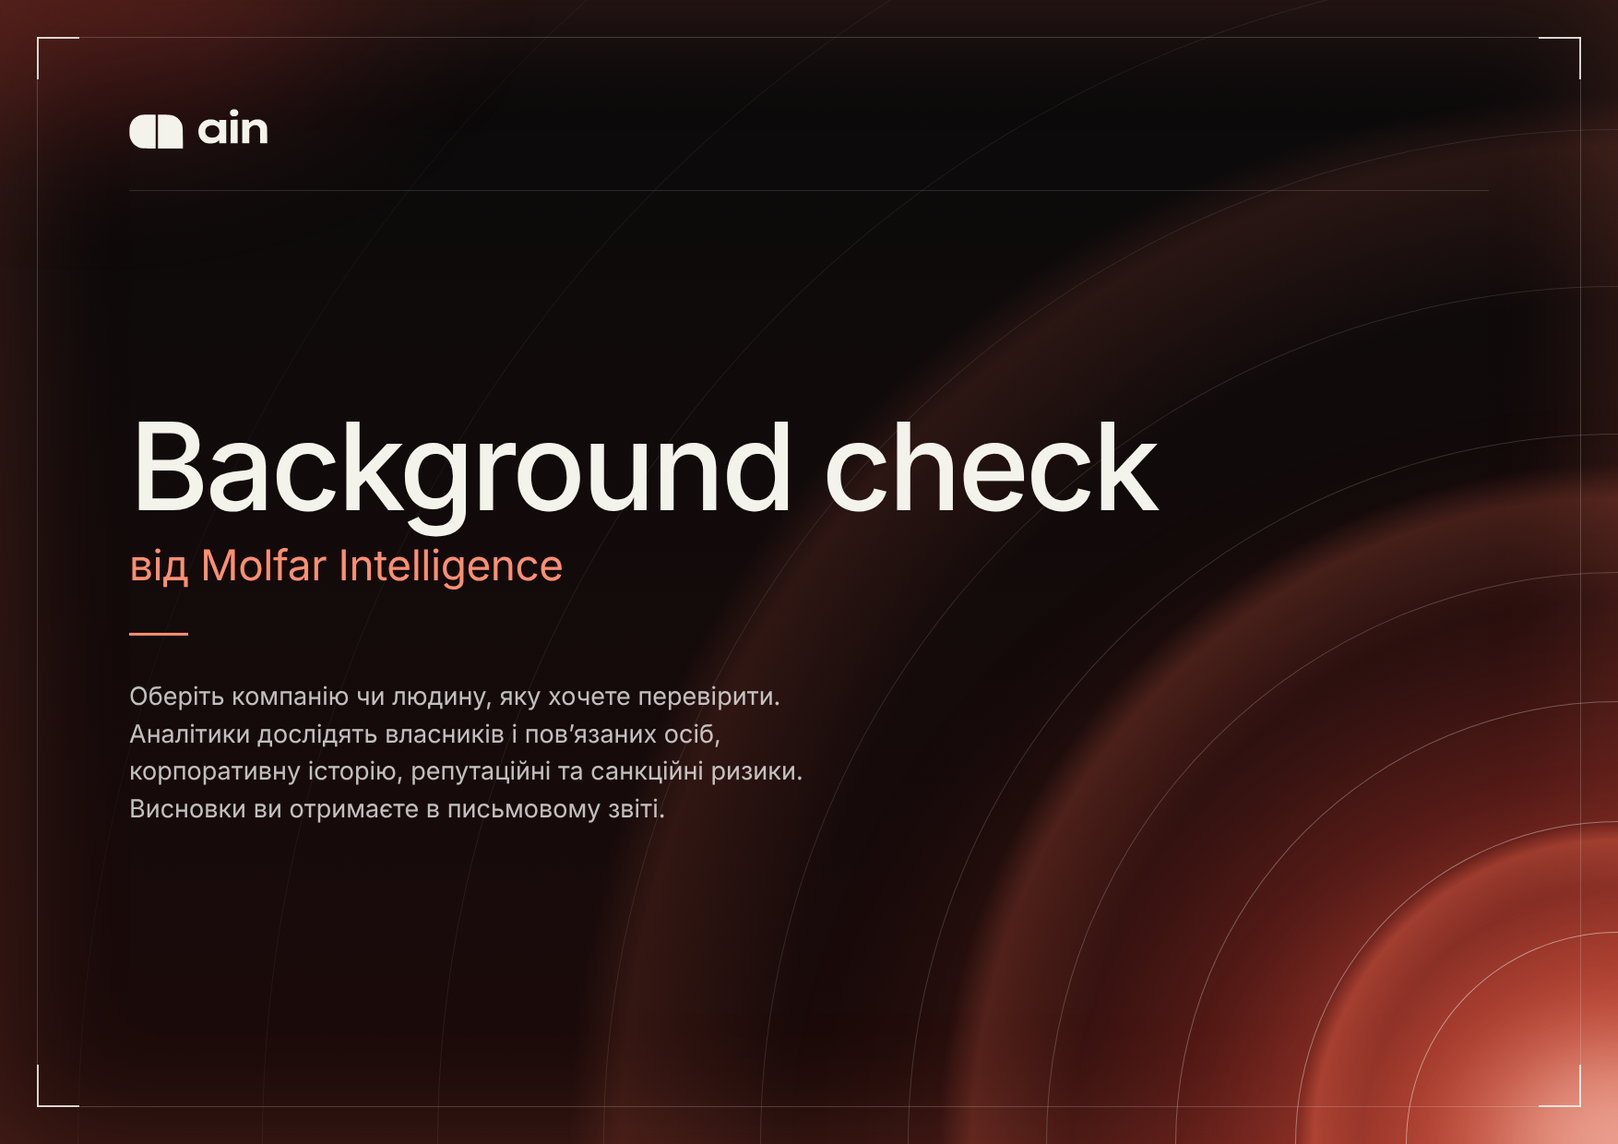
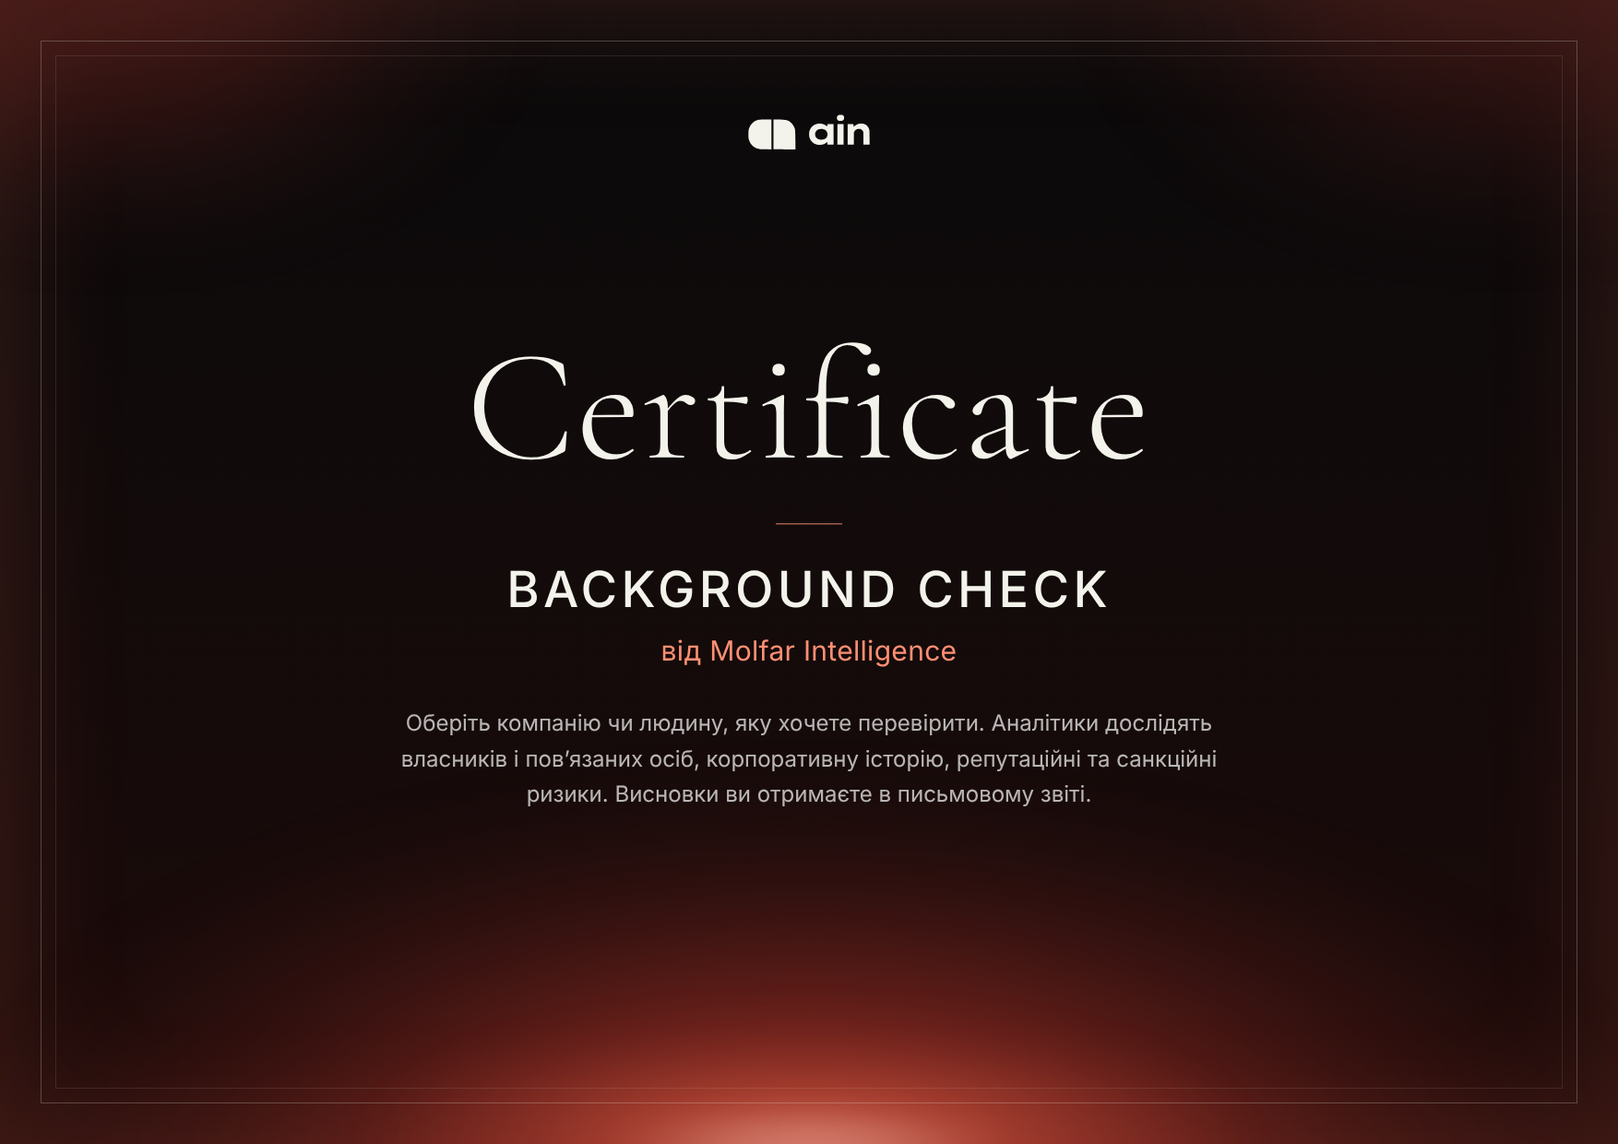
Сертифікати: центрована формальна композиція, слово Certificate, без графіки
Прибрано сонар-дуги й кутики. Тепер: логотип AIN, «Certificate» (Cormorant
Garamond Light), назва призу, партнер, опис по центру; м’яке червоне світло
знизу й тонка подвійна рамка.

Claude-Session: https://claude.ai/code/session_01JW72noxTFsibkUspgJ9z9a

diff --git a/ain-awards-certificate/code.js b/ain-awards-certificate/code.js
@@ -12,21 +12,19 @@ const PRIZES = [
     title: "Background check",
     by: "від Molfar Intelligence",
     desc: "Оберіть компанію чи людину, яку хочете перевірити. Аналітики дослідять власників і пов’язаних осіб, корпоративну історію, репутаційні та санкційні ризики. Висновки ви отримаєте в письмовому звіті.",
-    phase: 0,
   },
   {
     key: "osint-course",
+    descW: 980,
     title: "Курс з OSINT",
     by: "від Molfar Intelligence Institute",
     desc: "Це доступ до онлайн-курсу з розвідки з відкритих джерел. Аналітики-практики навчать вас шукати, перевіряти й аналізувати відкриту інформацію. Вчитися можна у власному темпі.",
-    phase: 60,
   },
   {
     key: "minos-month",
     title: "Місяць доступу до Minos",
     by: null,
     desc: "Minos — це платформа Molfar Intelligence для моніторингу інформаційних загроз і реагування на них. Протягом місяця з дня активації ви користуєтеся нею безкоштовно.",
-    phase: 120,
   },
 ];
 
@@ -35,7 +33,7 @@ const PAL = {
   base1: "#0A0A0B", base2: "#1C0B0A",
   red: "#C2382E", ember: "#F06A4E", flash: "#FFD9CC", peach: "#FF8F73", cream: "#F3F3EB", white: "#FFFFFF",
 };
-const W = 1754, H = 1240;
+const W = 1754, H = 1240, CX = W / 2;
 
 const solid = (c, a) => ({ k: "solid", c, a: a == null ? 1 : a });
 const lin = (dir, stops) => ({ k: "lin", dir, stops });
@@ -51,61 +49,38 @@ const bar = (name, x, y, w, h, c, a) => ({ t: "frame", n: name, x, y, w, h, fill
 const logoSvg = (w, color) =>
   `<svg xmlns="http://www.w3.org/2000/svg" width="${w}" height="${Math.round((w * LOGO.H) / LOGO.W * 10) / 10}" viewBox="0 0 ${LOGO.W} ${LOGO.H}" fill="none"><path d="${LOGO.mark}" fill="${color}"/><path d="${LOGO.word}" fill="${color}"/></svg>`;
 
-/* «сонар»: концентричні дуги з правого нижнього кута + м’які світні кільця */
-function sonar(phase) {
-  const cx = W, cy = H, ch = [];
-  const radii = [230, 350, 480, 620, 770, 930, 1100, 1280, 1470, 1670];
-  const alphas = [0.5, 0.4, 0.3, 0.22, 0.17, 0.13, 0.1, 0.08, 0.06, 0.045];
-  radii.forEach((r, i) => {
-    const R = r + phase;
-    ch.push({ t: "ellipse", n: "дуга", x: cx - R, y: cy - R, w: 2 * R, h: 2 * R, stroke: { c: PAL.cream, a: alphas[i], w: 1 } });
-  });
-  [[330, 0.34], [700, 0.2], [1080, 0.12]].forEach(([rp, a]) => {
-    const R = (rp + phase) / 0.95;
-    ch.push({
-      t: "ellipse", n: "світне кільце", x: cx - R, y: cy - R, w: 2 * R, h: 2 * R,
-      fill: { k: "rad", stops: [[0, PAL.ember, 0], [0.8, PAL.ember, 0], [0.95, PAL.ember, a], [1, PAL.ember, 0]] },
-    });
-  });
-  return { t: "frame", n: "Сонар", x: 0, y: 0, w: W, h: H, ch };
-}
-/* візирні кутики */
-function corners(inset, len, th, c, a) {
-  const x0 = inset, y0 = inset, x1 = W - inset, y1 = H - inset;
-  return [
-    bar("кутик", x0, y0, len, th, c, a), bar("кутик", x0, y0, th, len, c, a),
-    bar("кутик", x1 - len, y0, len, th, c, a), bar("кутик", x1 - th, y0, th, len, c, a),
-    bar("кутик", x0, y1 - th, len, th, c, a), bar("кутик", x0, y1 - len, th, len, c, a),
-    bar("кутик", x1 - len, y1 - th, len, th, c, a), bar("кутик", x1 - th, y1 - len, th, len, c, a),
-  ];
-}
+const ENG = "Certificate";
 
 function certificate(p) {
-  const titleBlock = [text({ n: "title", s: p.title, w: 1360, f: "dm", sz: 132, lhr: 1.0, ls: -0.03, c: PAL.cream })];
-  if (p.by) titleBlock.push(text({ n: "by", s: p.by, w: 1000, f: "dr", sz: 46, lhr: 1.2, ls: -0.01, c: PAL.peach }));
-  const copy = {
-    t: "frame", n: "текст", x: 140, cy: 668, w: "hug", h: "hug", layout: "V", gap: 46, align: "start",
+  const group = {
+    t: "frame", n: "текст", cx: CX, cy: 618, w: "hug", h: "hug", layout: "V", gap: 40, align: "center",
     ch: [
-      { t: "frame", n: "назва", w: "hug", h: "hug", layout: "V", gap: 14, align: "start", ch: titleBlock },
-      bar("акцентна риска", 0, 0, 64, 3, PAL.peach, 1),
-      text({ n: "desc", s: p.desc, w: 780, f: "dr", sz: 27, lhr: 1.5, c: PAL.white, a: 0.74 }),
+      text({ n: "Certificate", s: ENG, w: 1400, al: "c", f: "serif", sz: 172, lhr: 1.0, ls: 0.01, c: PAL.cream }),
+      bar("риска", 0, 0, 72, 1, PAL.peach, 0.9),
+      {
+        t: "frame", n: "назва", w: "hug", h: "hug", layout: "V", gap: 16, align: "center",
+        ch: [
+          text({ n: "title", s: p.title, w: 1300, al: "c", f: "dm", sz: 54, lhr: 1.15, ls: 0.08, c: PAL.cream, caps: true }),
+          ...(p.by ? [text({ n: "by", s: p.by, w: 1000, al: "c", f: "dr", sz: 30, lhr: 1.3, ls: 0.01, c: PAL.peach })] : []),
+        ],
+      },
+      text({ n: "desc", s: p.desc, w: p.descW || 900, al: "c", f: "dr", sz: 24, lhr: 1.6, c: PAL.white, a: 0.7 }),
     ],
   };
   return {
     t: "frame", n: "AIN Awards 2026 — " + p.title + (p.by ? " " + p.by : ""), x: 0, y: 0, w: W, h: H, clip: true,
     fill: lin("v", [[0, PAL.base1], [1, PAL.base2]]),
-    shadows: [{ inner: true, x: 0, y: 0, blur: 140, c: PAL.ember, a: 0.22 }],
+    shadows: [{ inner: true, x: 0, y: 0, blur: 140, c: PAL.ember, a: 0.2 }],
     ch: [
-      glow("Сяйво", W, H, 1700, 1500, PAL.red, 0.72, 90),
-      glow("Сяйво / верх-ліво", 100, 0, 900, 500, PAL.red, 0.3, 80),
-      glow("Ядро", W, H, 900, 760, PAL.ember, 0.7, 60),
-      glow("Спалах", W, H, 420, 340, PAL.flash, 0.6, 40),
-      sonar(p.phase),
-      { t: "frame", n: "Рамка", x: 40, y: 40, w: W - 80, h: H - 80, stroke: { c: PAL.cream, a: 0.2, w: 1 } },
-      ...corners(40, 46, 2, PAL.cream, 0.85),
-      { t: "svg", n: "AIN logo", x: 140, y: 118, w: 150, h: 43.4, svg: logoSvg(150, PAL.cream) },
-      bar("лінія шапки", 140, 206, W - 280, 1, PAL.cream, 0.14),
-      copy,
+      glow("Сяйво / низ", CX, 1260, 1800, 800, PAL.red, 0.66, 90),
+      glow("Сяйво / верх-ліво", 120, 20, 900, 520, PAL.red, 0.26, 80),
+      glow("Сяйво / верх-право", W - 120, 20, 900, 520, PAL.red, 0.2, 80),
+      glow("Ядро", CX, 1236, 960, 260, PAL.ember, 0.55, 55),
+      glow("Спалах", CX, 1240, 460, 90, PAL.flash, 0.4, 30),
+      { t: "frame", n: "Рамка", x: 44, y: 44, w: W - 88, h: H - 88, stroke: { c: PAL.cream, a: 0.24, w: 1 } },
+      { t: "frame", n: "Рамка внутрішня", x: 60, y: 60, w: W - 120, h: H - 120, stroke: { c: PAL.cream, a: 0.1, w: 1 } },
+      { t: "svg", n: "AIN logo", cx: CX, y: 124, w: 132, h: 38.2, svg: logoSvg(132, PAL.cream) },
+      group,
     ],
   };
 }
@@ -123,6 +98,7 @@ const rgbaF = (h, a) => Object.assign(hex(h), { a: a == null ? 1 : a });
 const FONT_WANT = {
   dm: { families: ["Basis Grotesque Pro", "Basis Grotesque"], styles: ["Medium", "Regular"], fb: { family: "Inter", style: "Medium" } },
   dr: { families: ["Basis Grotesque Pro", "Basis Grotesque"], styles: ["Regular", "Medium"], fb: { family: "Inter", style: "Regular" } },
+  serif: { families: ["Cormorant Garamond", "Cormorant", "Playfair Display", "EB Garamond"], styles: ["Light", "Regular"], fb: { family: "Inter", style: "Light" } },
 };
 const FONTS = {};
 async function loadFonts() {

diff --git a/ain-awards-certificate/spec.js b/ain-awards-certificate/spec.js
@@ -9,21 +9,19 @@ const PRIZES = [
     title: "Background check",
     by: "від Molfar Intelligence",
     desc: "Оберіть компанію чи людину, яку хочете перевірити. Аналітики дослідять власників і пов’язаних осіб, корпоративну історію, репутаційні та санкційні ризики. Висновки ви отримаєте в письмовому звіті.",
-    phase: 0,
   },
   {
     key: "osint-course",
+    descW: 980,
     title: "Курс з OSINT",
     by: "від Molfar Intelligence Institute",
     desc: "Це доступ до онлайн-курсу з розвідки з відкритих джерел. Аналітики-практики навчать вас шукати, перевіряти й аналізувати відкриту інформацію. Вчитися можна у власному темпі.",
-    phase: 60,
   },
   {
     key: "minos-month",
     title: "Місяць доступу до Minos",
     by: null,
     desc: "Minos — це платформа Molfar Intelligence для моніторингу інформаційних загроз і реагування на них. Протягом місяця з дня активації ви користуєтеся нею безкоштовно.",
-    phase: 120,
   },
 ];
 
@@ -32,7 +30,7 @@ const PAL = {
   base1: "#0A0A0B", base2: "#1C0B0A",
   red: "#C2382E", ember: "#F06A4E", flash: "#FFD9CC", peach: "#FF8F73", cream: "#F3F3EB", white: "#FFFFFF",
 };
-const W = 1754, H = 1240;
+const W = 1754, H = 1240, CX = W / 2;
 
 const solid = (c, a) => ({ k: "solid", c, a: a == null ? 1 : a });
 const lin = (dir, stops) => ({ k: "lin", dir, stops });
@@ -48,61 +46,38 @@ const bar = (name, x, y, w, h, c, a) => ({ t: "frame", n: name, x, y, w, h, fill
 const logoSvg = (w, color) =>
   `<svg xmlns="http://www.w3.org/2000/svg" width="${w}" height="${Math.round((w * LOGO.H) / LOGO.W * 10) / 10}" viewBox="0 0 ${LOGO.W} ${LOGO.H}" fill="none"><path d="${LOGO.mark}" fill="${color}"/><path d="${LOGO.word}" fill="${color}"/></svg>`;
 
-/* «сонар»: концентричні дуги з правого нижнього кута + м’які світні кільця */
-function sonar(phase) {
-  const cx = W, cy = H, ch = [];
-  const radii = [230, 350, 480, 620, 770, 930, 1100, 1280, 1470, 1670];
-  const alphas = [0.5, 0.4, 0.3, 0.22, 0.17, 0.13, 0.1, 0.08, 0.06, 0.045];
-  radii.forEach((r, i) => {
-    const R = r + phase;
-    ch.push({ t: "ellipse", n: "дуга", x: cx - R, y: cy - R, w: 2 * R, h: 2 * R, stroke: { c: PAL.cream, a: alphas[i], w: 1 } });
-  });
-  [[330, 0.34], [700, 0.2], [1080, 0.12]].forEach(([rp, a]) => {
-    const R = (rp + phase) / 0.95;
-    ch.push({
-      t: "ellipse", n: "світне кільце", x: cx - R, y: cy - R, w: 2 * R, h: 2 * R,
-      fill: { k: "rad", stops: [[0, PAL.ember, 0], [0.8, PAL.ember, 0], [0.95, PAL.ember, a], [1, PAL.ember, 0]] },
-    });
-  });
-  return { t: "frame", n: "Сонар", x: 0, y: 0, w: W, h: H, ch };
-}
-/* візирні кутики */
-function corners(inset, len, th, c, a) {
-  const x0 = inset, y0 = inset, x1 = W - inset, y1 = H - inset;
-  return [
-    bar("кутик", x0, y0, len, th, c, a), bar("кутик", x0, y0, th, len, c, a),
-    bar("кутик", x1 - len, y0, len, th, c, a), bar("кутик", x1 - th, y0, th, len, c, a),
-    bar("кутик", x0, y1 - th, len, th, c, a), bar("кутик", x0, y1 - len, th, len, c, a),
-    bar("кутик", x1 - len, y1 - th, len, th, c, a), bar("кутик", x1 - th, y1 - len, th, len, c, a),
-  ];
-}
+const ENG = "Certificate";
 
 function certificate(p) {
-  const titleBlock = [text({ n: "title", s: p.title, w: 1360, f: "dm", sz: 132, lhr: 1.0, ls: -0.03, c: PAL.cream })];
-  if (p.by) titleBlock.push(text({ n: "by", s: p.by, w: 1000, f: "dr", sz: 46, lhr: 1.2, ls: -0.01, c: PAL.peach }));
-  const copy = {
-    t: "frame", n: "текст", x: 140, cy: 668, w: "hug", h: "hug", layout: "V", gap: 46, align: "start",
+  const group = {
+    t: "frame", n: "текст", cx: CX, cy: 618, w: "hug", h: "hug", layout: "V", gap: 40, align: "center",
     ch: [
-      { t: "frame", n: "назва", w: "hug", h: "hug", layout: "V", gap: 14, align: "start", ch: titleBlock },
-      bar("акцентна риска", 0, 0, 64, 3, PAL.peach, 1),
-      text({ n: "desc", s: p.desc, w: 780, f: "dr", sz: 27, lhr: 1.5, c: PAL.white, a: 0.74 }),
+      text({ n: "Certificate", s: ENG, w: 1400, al: "c", f: "serif", sz: 172, lhr: 1.0, ls: 0.01, c: PAL.cream }),
+      bar("риска", 0, 0, 72, 1, PAL.peach, 0.9),
+      {
+        t: "frame", n: "назва", w: "hug", h: "hug", layout: "V", gap: 16, align: "center",
+        ch: [
+          text({ n: "title", s: p.title, w: 1300, al: "c", f: "dm", sz: 54, lhr: 1.15, ls: 0.08, c: PAL.cream, caps: true }),
+          ...(p.by ? [text({ n: "by", s: p.by, w: 1000, al: "c", f: "dr", sz: 30, lhr: 1.3, ls: 0.01, c: PAL.peach })] : []),
+        ],
+      },
+      text({ n: "desc", s: p.desc, w: p.descW || 900, al: "c", f: "dr", sz: 24, lhr: 1.6, c: PAL.white, a: 0.7 }),
     ],
   };
   return {
     t: "frame", n: "AIN Awards 2026 — " + p.title + (p.by ? " " + p.by : ""), x: 0, y: 0, w: W, h: H, clip: true,
     fill: lin("v", [[0, PAL.base1], [1, PAL.base2]]),
-    shadows: [{ inner: true, x: 0, y: 0, blur: 140, c: PAL.ember, a: 0.22 }],
+    shadows: [{ inner: true, x: 0, y: 0, blur: 140, c: PAL.ember, a: 0.2 }],
     ch: [
-      glow("Сяйво", W, H, 1700, 1500, PAL.red, 0.72, 90),
-      glow("Сяйво / верх-ліво", 100, 0, 900, 500, PAL.red, 0.3, 80),
-      glow("Ядро", W, H, 900, 760, PAL.ember, 0.7, 60),
-      glow("Спалах", W, H, 420, 340, PAL.flash, 0.6, 40),
-      sonar(p.phase),
-      { t: "frame", n: "Рамка", x: 40, y: 40, w: W - 80, h: H - 80, stroke: { c: PAL.cream, a: 0.2, w: 1 } },
-      ...corners(40, 46, 2, PAL.cream, 0.85),
-      { t: "svg", n: "AIN logo", x: 140, y: 118, w: 150, h: 43.4, svg: logoSvg(150, PAL.cream) },
-      bar("лінія шапки", 140, 206, W - 280, 1, PAL.cream, 0.14),
-      copy,
+      glow("Сяйво / низ", CX, 1260, 1800, 800, PAL.red, 0.66, 90),
+      glow("Сяйво / верх-ліво", 120, 20, 900, 520, PAL.red, 0.26, 80),
+      glow("Сяйво / верх-право", W - 120, 20, 900, 520, PAL.red, 0.2, 80),
+      glow("Ядро", CX, 1236, 960, 260, PAL.ember, 0.55, 55),
+      glow("Спалах", CX, 1240, 460, 90, PAL.flash, 0.4, 30),
+      { t: "frame", n: "Рамка", x: 44, y: 44, w: W - 88, h: H - 88, stroke: { c: PAL.cream, a: 0.24, w: 1 } },
+      { t: "frame", n: "Рамка внутрішня", x: 60, y: 60, w: W - 120, h: H - 120, stroke: { c: PAL.cream, a: 0.1, w: 1 } },
+      { t: "svg", n: "AIN logo", cx: CX, y: 124, w: 132, h: 38.2, svg: logoSvg(132, PAL.cream) },
+      group,
     ],
   };
 }

diff --git a/ain-awards-certificate/figma-render.js b/ain-awards-certificate/figma-render.js
@@ -7,6 +7,7 @@ const rgbaF = (h, a) => Object.assign(hex(h), { a: a == null ? 1 : a });
 const FONT_WANT = {
   dm: { families: ["Basis Grotesque Pro", "Basis Grotesque"], styles: ["Medium", "Regular"], fb: { family: "Inter", style: "Medium" } },
   dr: { families: ["Basis Grotesque Pro", "Basis Grotesque"], styles: ["Regular", "Medium"], fb: { family: "Inter", style: "Regular" } },
+  serif: { families: ["Cormorant Garamond", "Cormorant", "Playfair Display", "EB Garamond"], styles: ["Light", "Regular"], fb: { family: "Inter", style: "Light" } },
 };
 const FONTS = {};
 async function loadFonts() {

diff --git a/ain-awards-certificate/html-render.js b/ain-awards-certificate/html-render.js
@@ -2,8 +2,7 @@
 const FONT_CSS = {
   dm: { fam: "'Basis Grotesque Pro','Inter',sans-serif", w: 500 },
   dr: { fam: "'Basis Grotesque Pro','Inter',sans-serif", w: 400 },
-  mono: { fam: "'JetBrains Mono','Roboto Mono',monospace", w: 500 },
-  serif: { fam: "'Cormorant Garamond','Playfair Display',serif", w: 500, italic: true },
+  serif: { fam: "'Cormorant Garamond','Playfair Display',serif", w: 300 },
 };
 const rgba = (h, a) => {
   const n = parseInt(h.slice(1), 16);

diff --git a/ain-awards-certificate/README.md b/ain-awards-certificate/README.md
@@ -3,19 +3,20 @@
 Локальний плагін, який за один запуск збирає у Figma **три окремі сертифікати** (A4 landscape, 1754×1240):
 **Background check**, **Курс з OSINT**, **Місяць доступу до Minos**.
 
-На сертифікатах **тільки текст із брифу** (назва, партнер, опис) і **справжній логотип AIN**
-(обведений у вектор з `godlike-landing/assets/ain-white.png`). Нічого додаткового немає: ні полів, ні дат, ні печаток.
-Стиль — тільки графікою, без слів: чорна основа, світіння й «сонар»-дуги у кольорах AIN Awards 2026, візирні кутики, тонка рамка.
+На сертифікатах: слово **Certificate**, **текст із брифу** (назва, партнер, опис) і **справжній логотип AIN**
+(обведений у вектор з `godlike-landing/assets/ain-white.png`). Більше нічого: ні полів, ні дат, ні печаток, ні декоративної графіки.
+Композиція по центру, чорна основа з м’яким червоним світлом знизу, тонка подвійна рамка.
 
 ## Запуск (≈1 хвилина, не витрачає ліміт Figma MCP)
 1. Створіть **порожній** файл у **Figma Desktop**.
 2. **Plugins → Development → Import plugin from manifest…** → `manifest.json` (поруч має лежати `code.js`; обидва файли є в `ain-awards-certificate-plugin.zip`).
 3. **Plugins → Development → AIN Awards 2026 — сертифікати Molfar**. Три макети зʼявляться праворуч від наявного вмісту.
 
-Шрифт: **Basis Grotesque Pro** (Medium для назви, Regular для тексту). Якщо його немає, плагін підставить Inter і напише про це.
+Шрифти: **Cormorant Garamond Light** для «Certificate» (є у Figma за замовчуванням, Google Fonts) і **Basis Grotesque Pro**
+(Medium для назви призу, Regular для решти). Якщо шрифту немає, плагін підставить Inter і напише про це.
 
 ## Редагування
-Тексти — `PRIZES` на початку `spec.js`. Після змін: `python3 build.py` (оновить `code.js`) і запустіть плагін знову.
+Тексти — `PRIZES` і `ENG` у `spec.js`. Після змін: `python3 build.py` (оновить `code.js`) і запустіть плагін знову.
 `preview.html` — ті самі макети в браузері (`preview-1..3.png` — знімки).
 
 ## Як це влаштовано
